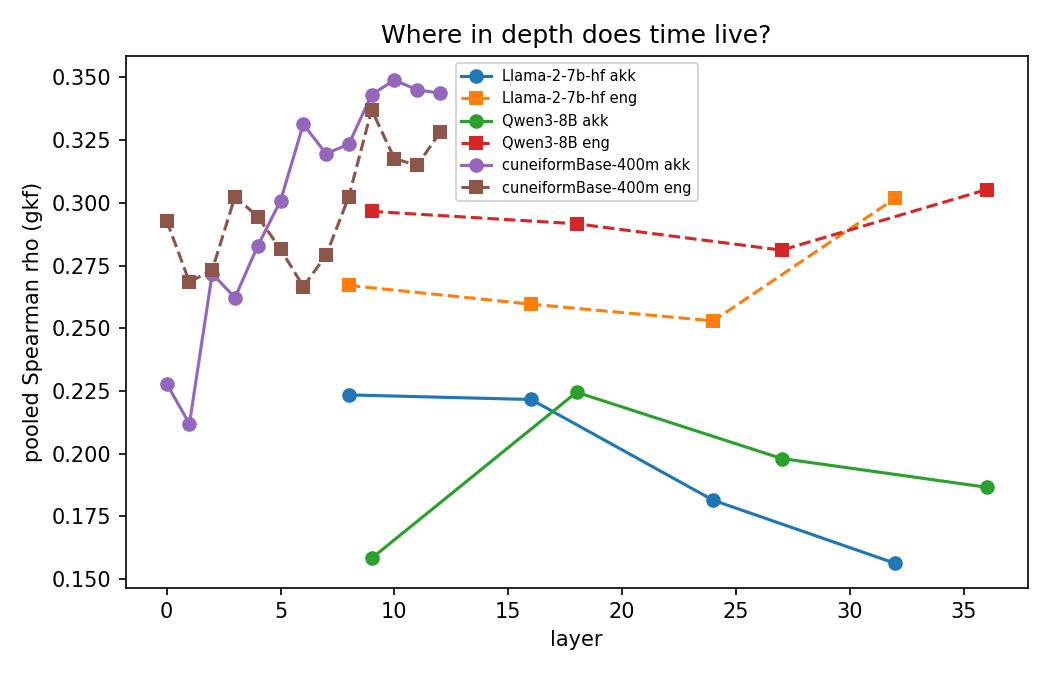
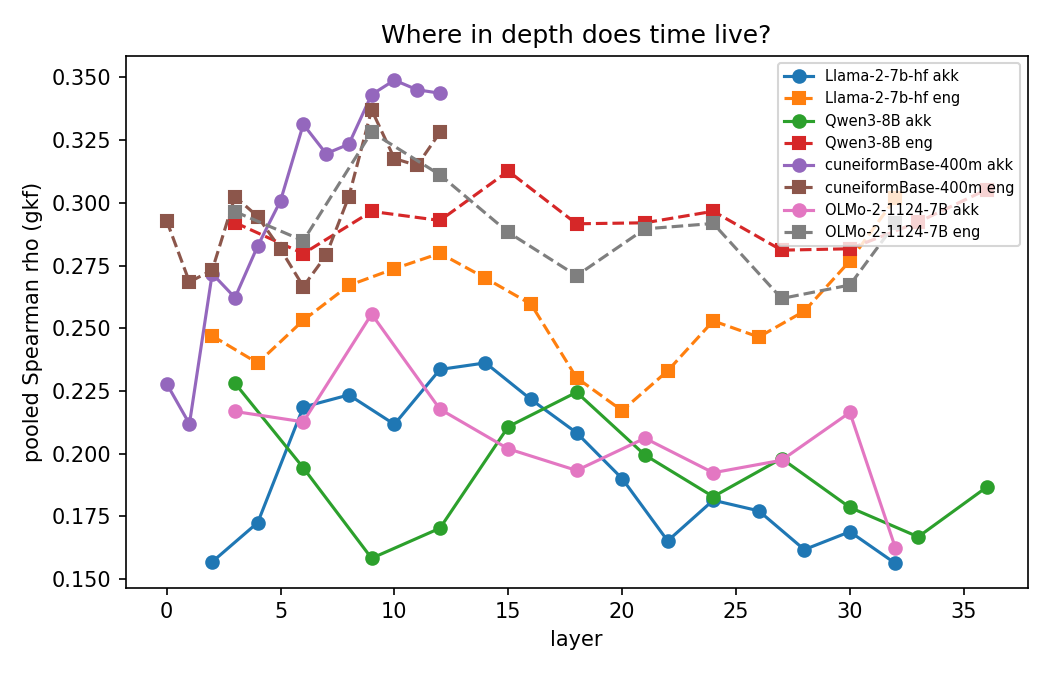
C25: alignment atlas figures (job 53221)

diff --git a/chrono/reports/tier0/atlas/ATLAS.md b/chrono/reports/tier0/atlas/ATLAS.md
@@ -1,6 +1,12 @@
 # Alignment atlas — dated inscriptions, tier0 store
 
+**Fig A** `A_layer_alignment_Llama-2-7b-hf.png` — NousResearch/Llama-2-7b-hf, 16 layers.
+
+**Fig A** `A_layer_alignment_Qwen3-8B.png` — Qwen/Qwen3-8B, 12 layers.
+
 **Fig A** `A_layer_alignment_cuneiformBase-400m.png` — Thalesian/cuneiformBase-400m, 13 layers.
+
+**Fig A** `A_layer_alignment_OLMo-2-1124-7B.png` — allenai/OLMo-2-1124-7B, 11 layers.
 
 **Fig B** `B_language_alignment.png` — high ARI = manifolds encode content (survive translation); low = script/surface. Right panel: century separation per language per layer.
 
